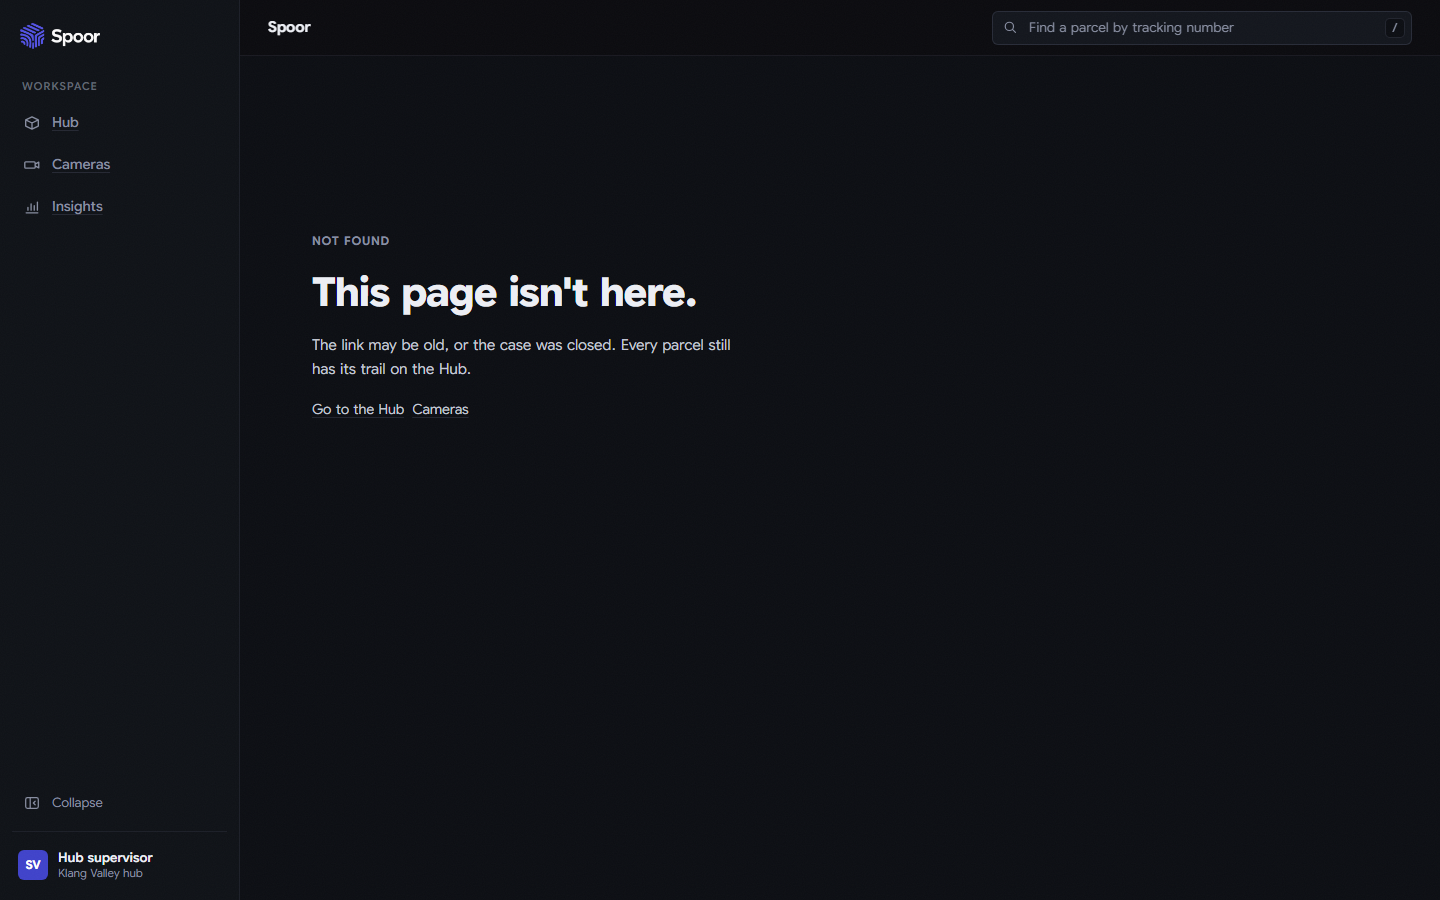
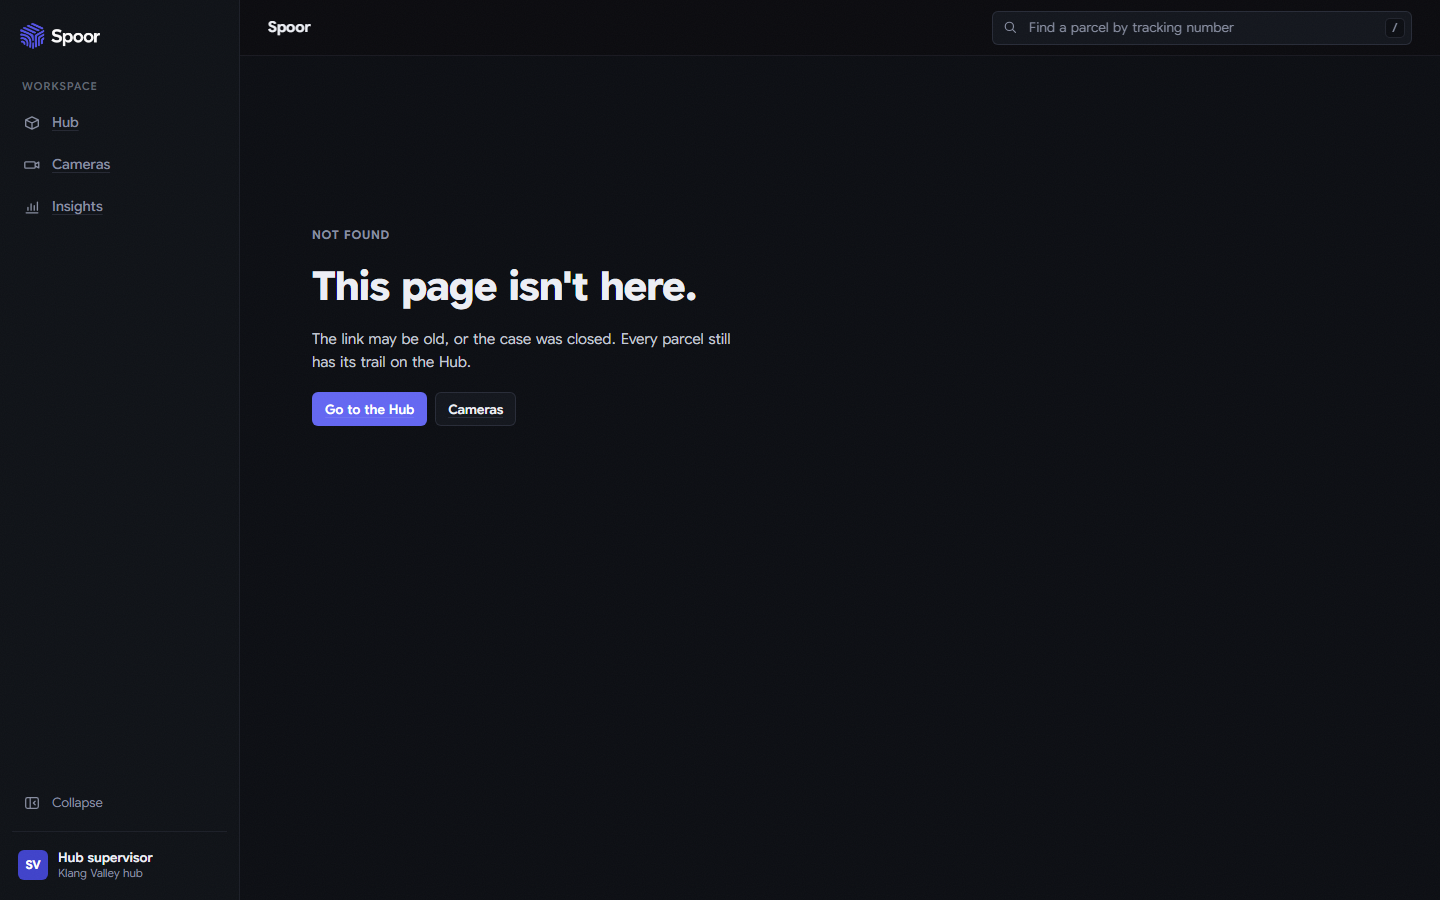
404 page uses the app's buttons

Changed region(s): [[0.2188, 0.2489, 0.5, 0.4978]]

diff --git a/frontend/src/app/hub/hub.css b/frontend/src/app/hub/hub.css
@@ -20,21 +20,21 @@
 .hb-dock-empty { margin: 0; padding: 28px 20px; font-size: 13.5px; color: var(--tb-mute); }
 
 /* buttons */
-:is(.hb, .an, .pf, .sr, .rp) .hb-btn {
+:is(.hb, .an, .pf, .sr, .rp, .nf) .hb-btn {
   height: 34px; display: inline-flex; align-items: center; justify-content: center; gap: 8px; box-sizing: border-box; padding: 0 12px;
   border-radius: var(--tb-r-sm); border: 1px solid var(--tb-line-2); background: var(--tb-surface); color: var(--tb-ink); font: inherit;
   font-size: 13px; font-weight: 600; cursor: pointer; white-space: nowrap;
   transition: background-color 140ms ease, border-color 140ms ease, transform 140ms var(--tb-ease-out);
 }
-:is(.hb, .an, .pf, .sr, .rp) .hb-btn svg { width: 15px; height: 15px; fill: none; stroke: currentColor; stroke-width: 1.4; stroke-linejoin: round; }
-:is(.hb, .an, .pf, .sr, .rp) .hb-btn:active { transform: scale(0.97); }
-:is(.hb, .an, .pf, .sr, .rp) .hb-btn:focus-visible { outline: 2px solid #818cf8; outline-offset: 2px; }
-:is(.hb, .an, .pf, .sr, .rp) .hb-btn:disabled { opacity: 0.55; cursor: default; }
-:is(.hb, .an, .pf, .sr, .rp) .hb-btn-primary { border-color: transparent; background: var(--tb-accent); color: #fff; }
-:is(.hb, .an, .pf, .sr, .rp) .hb-btn-sm { height: 28px; padding: 0 10px; font-size: 12.5px; }
+:is(.hb, .an, .pf, .sr, .rp, .nf) .hb-btn svg { width: 15px; height: 15px; fill: none; stroke: currentColor; stroke-width: 1.4; stroke-linejoin: round; }
+:is(.hb, .an, .pf, .sr, .rp, .nf) .hb-btn:active { transform: scale(0.97); }
+:is(.hb, .an, .pf, .sr, .rp, .nf) .hb-btn:focus-visible { outline: 2px solid #818cf8; outline-offset: 2px; }
+:is(.hb, .an, .pf, .sr, .rp, .nf) .hb-btn:disabled { opacity: 0.55; cursor: default; }
+:is(.hb, .an, .pf, .sr, .rp, .nf) .hb-btn-primary { border-color: transparent; background: var(--tb-accent); color: #fff; }
+:is(.hb, .an, .pf, .sr, .rp, .nf) .hb-btn-sm { height: 28px; padding: 0 10px; font-size: 12.5px; }
 @media (hover: hover) and (pointer: fine) {
-  :is(.hb, .an, .pf, .sr, .rp) .hb-btn:hover { background: var(--tb-raise); color: var(--tb-ink); }
-  :is(.hb, .an, .pf, .sr, .rp) .hb-btn-primary:hover { background: #6366f1; color: #fff; }
+  :is(.hb, .an, .pf, .sr, .rp, .nf) .hb-btn:hover { background: var(--tb-raise); color: var(--tb-ink); }
+  :is(.hb, .an, .pf, .sr, .rp, .nf) .hb-btn-primary:hover { background: #6366f1; color: #fff; }
 }
 
 /* KPI strip: one row of equal cells, each a way into its tab */
